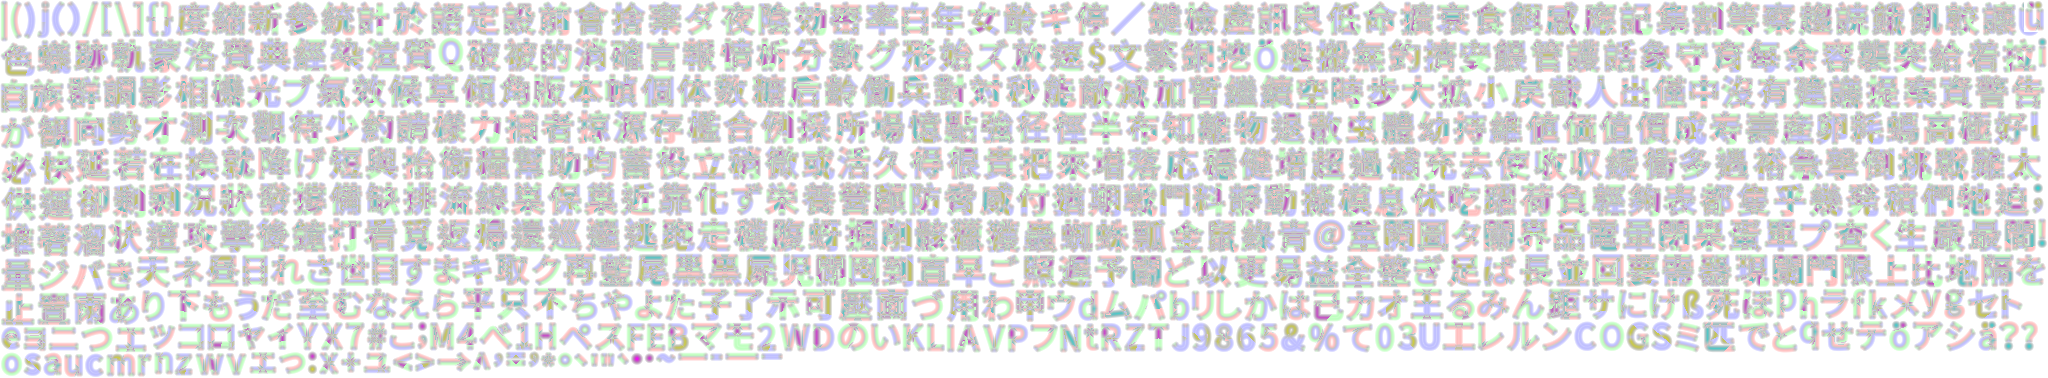
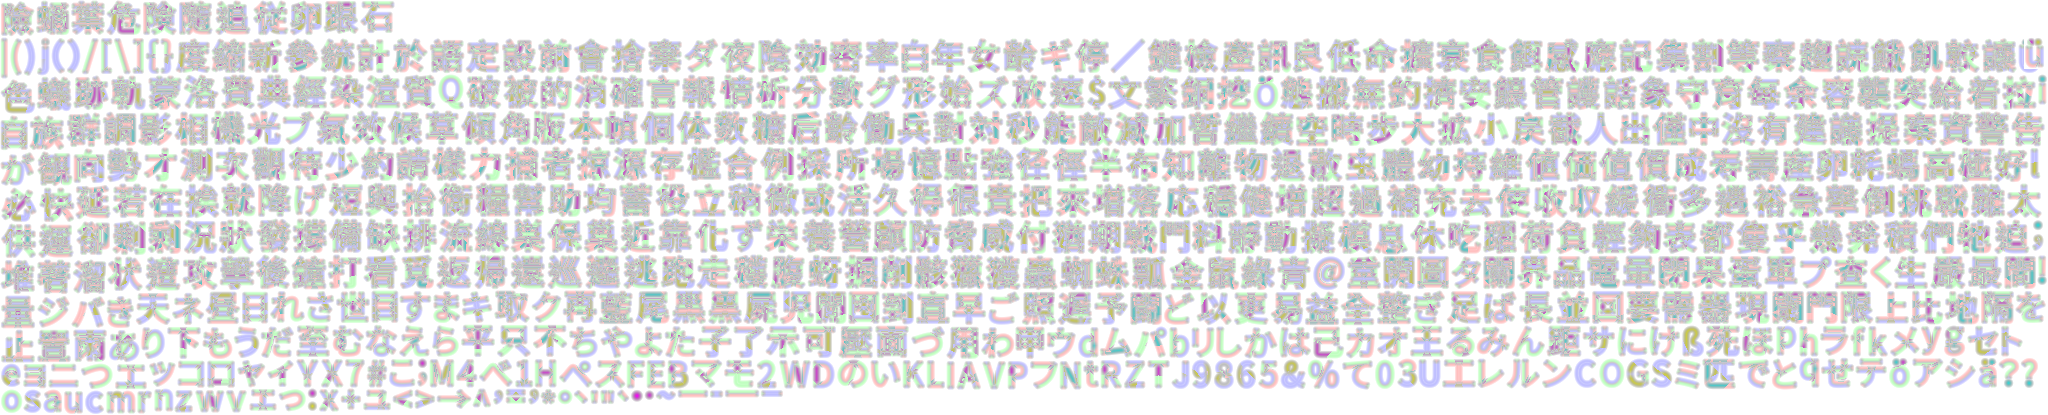
feat(ui): inspect nest brood and chambers (Refs #12)
Eggs, larvae, and pupae that are not being carried can be picked in
the nest, inside a radius smaller than an ant. A click that misses
those, the queen, and nest ants lands on the chamber under the cursor.
The panel shows the stage, hunger, caste, role, and radius.

diff --git a/koolApp/src/desktopTest/kotlin/com/neojou/myants/session/ToolControllerTest.kt b/koolApp/src/desktopTest/kotlin/com/neojou/myants/session/ToolControllerTest.kt
@@ -4,6 +4,9 @@ import com.neojou.myants.SimTool
 import com.neojou.myants.sim.Ant
 import com.neojou.myants.sim.AntKind
 import com.neojou.myants.sim.AntPlace
+import com.neojou.myants.sim.Brood
+import com.neojou.myants.sim.BroodStage
+import com.neojou.myants.sim.ChamberRole
 import com.neojou.myants.sim.Food
 import com.neojou.myants.sim.FoodKind
 import com.neojou.myants.sim.InsectKind
@@ -104,6 +107,60 @@ class ToolControllerTest {
         assertNull(t.inspectedAnt)
         assertTrue(t.inspectTarget() is InspectTarget.QueenTarget)
         assertTrue(t.inspect.value.startsWith("Queen"))
+    }
+
+    @Test
+    fun inspectNestFindsBroodThenChamber() {
+        val colony = world.colonies[0]
+        val q = colony.queen
+        colony.ants.clear()
+        colony.brood.clear()
+        val egg = Brood(q.x + 60, q.y).apply { stage = BroodStage.EGG; age = 3.0 }
+        val larva = Brood(q.x, q.y + 70).apply { stage = BroodStage.LARVA; age = 4.0; hunger = 6.0 }
+        val pupa = Brood(q.x - 60, q.y).apply {
+            stage = BroodStage.PUPA
+            age = 1.0
+            destinedCaste = AntKind.SOLDIER
+        }
+        val carried = Brood(20.0, 20.0).apply {
+            stage = BroodStage.EGG
+            age = 1.0
+            carrier = Ant(0.0, 0.0, AntKind.WORKER)
+        }
+        colony.brood += listOf(egg, larva, pupa, carried)
+        val t = ToolController()
+        t.inspectNest(world, egg.x, egg.y)
+        assertEquals("EGG age=3", t.inspect.value)
+        assertEquals("EGG", t.inspectPanel.value?.title)
+        assertEquals(listOf("age=3"), t.inspectPanel.value?.rows)
+
+        t.inspectNest(world, larva.x, larva.y)
+        assertEquals("LARVA age=4 hunger=6", t.inspect.value)
+        assertTrue(t.inspectPanel.value!!.rows.contains("hunger=6"))
+
+        t.inspectNest(world, pupa.x, pupa.y)
+        assertEquals("PUPA age=1 SOLDIER", t.inspect.value)
+
+        // Queen stays ahead of a brood that is also inside the queen radius.
+        val near = Brood(q.x + 15, q.y).apply { stage = BroodStage.EGG; age = 1.0 }
+        colony.brood += near
+        t.inspectNest(world, near.x, near.y)
+        assertTrue(t.inspectTarget() is InspectTarget.QueenTarget)
+
+        val room = colony.nest.addChamber(24.0, 24.0, 30.0, ChamberRole.STORAGE)
+        t.inspectNest(world, carried.x, carried.y)
+        assertTrue(t.inspectTarget() is InspectTarget.ChamberItem)
+        assertEquals("CHAMBER STORAGE r=30", t.inspect.value)
+        assertEquals(listOf("STORAGE", "r=30"), t.inspectPanel.value?.rows)
+        assertEquals(room.x, 24.0)
+
+        L10n.language.value = UiLanguage.ZH_TW
+        t.inspectNest(world, egg.x, egg.y)
+        assertEquals("卵", t.inspectPanel.value?.title)
+        assertEquals("卵 年齡=3", t.inspect.value)
+        t.inspectNest(world, room.x, room.y)
+        assertEquals("巢間", t.inspectPanel.value?.title)
+        assertEquals(listOf("存放", "半徑=30"), t.inspectPanel.value?.rows)
     }
 
     @Test

diff --git a/koolApp/src/commonMain/kotlin/com/neojou/myants/ui/InspectCopy.kt b/koolApp/src/commonMain/kotlin/com/neojou/myants/ui/InspectCopy.kt
@@ -3,7 +3,10 @@ package com.neojou.myants.ui
 import com.neojou.myants.sim.Ant
 import com.neojou.myants.sim.AntKind
 import com.neojou.myants.sim.AntState
+import com.neojou.myants.sim.Brood
+import com.neojou.myants.sim.BroodStage
 import com.neojou.myants.sim.CarryKind
+import com.neojou.myants.sim.ChamberRole
 import com.neojou.myants.sim.FoodKind
 import com.neojou.myants.sim.InsectKind
 
@@ -73,6 +76,54 @@ internal object InspectCopy {
         if (lang == UiLanguage.EN) type.name else insect(type, lang),
         listOf("${word(UiText.INSPECT_HP, lang)} $health"),
     )
+
+    fun broodLine(brood: Brood, lang: UiLanguage = L10n.language.value): String {
+        val age = brood.age.toInt()
+        val stage = word(stageKey(brood.stage), lang)
+        val base = "$stage ${word(UiText.INSPECT_AGE, lang)}=$age"
+        val withHunger = if (brood.stage == BroodStage.LARVA) {
+            "$base ${word(UiText.INSPECT_HUNGER, lang)}=${brood.hunger.toInt()}"
+        } else {
+            base
+        }
+        val caste = brood.destinedCaste
+        return if (brood.stage == BroodStage.PUPA && caste != null) "$withHunger ${kind(caste, lang)}" else withHunger
+    }
+
+    fun broodPanel(brood: Brood, lang: UiLanguage = L10n.language.value): InspectPanel {
+        val rows = ArrayList<String>()
+        rows += "${word(UiText.INSPECT_AGE, lang)}=${brood.age.toInt()}"
+        if (brood.stage == BroodStage.LARVA) {
+            rows += "${word(UiText.INSPECT_HUNGER, lang)}=${brood.hunger.toInt()}"
+        }
+        val caste = brood.destinedCaste
+        if (brood.stage == BroodStage.PUPA && caste != null) rows += kind(caste, lang)
+        return InspectPanel(word(stageKey(brood.stage), lang), rows)
+    }
+
+    fun chamberLine(role: ChamberRole, radius: Int, lang: UiLanguage = L10n.language.value): String =
+        "${word(UiText.INSPECT_CHAMBER, lang)} ${word(roleKey(role), lang)} ${word(UiText.INSPECT_RADIUS, lang)}=$radius"
+
+    fun chamberPanel(role: ChamberRole, radius: Int, lang: UiLanguage = L10n.language.value): InspectPanel = InspectPanel(
+        word(UiText.INSPECT_CHAMBER, lang),
+        listOf(
+            word(roleKey(role), lang),
+            "${word(UiText.INSPECT_RADIUS, lang)}=$radius",
+        ),
+    )
+
+    private fun stageKey(stage: BroodStage): UiText = when (stage) {
+        BroodStage.EGG -> UiText.INSPECT_EGG
+        BroodStage.LARVA -> UiText.INSPECT_LARVA
+        BroodStage.PUPA -> UiText.INSPECT_PUPA
+    }
+
+    private fun roleKey(role: ChamberRole): UiText = when (role) {
+        ChamberRole.QUEEN -> UiText.INSPECT_ROLE_QUEEN
+        ChamberRole.BROOD -> UiText.INSPECT_ROLE_BROOD
+        ChamberRole.STORAGE -> UiText.INSPECT_ROLE_STORAGE
+        ChamberRole.CEMETERY -> UiText.INSPECT_ROLE_CEMETERY
+    }
 
     fun kind(kind: AntKind, lang: UiLanguage): String = name(KIND, kind.name, lang)
     fun state(state: AntState, lang: UiLanguage): String = name(STATE, state.name, lang)

diff --git a/koolApp/src/commonMain/kotlin/com/neojou/myants/session/InspectTarget.kt b/koolApp/src/commonMain/kotlin/com/neojou/myants/session/InspectTarget.kt
@@ -2,6 +2,8 @@ package com.neojou.myants.session
 
 import com.neojou.myants.sim.Ant
 import com.neojou.myants.sim.AntPlace
+import com.neojou.myants.sim.Brood
+import com.neojou.myants.sim.Chamber
 import com.neojou.myants.sim.Colony
 import com.neojou.myants.sim.Food
 import com.neojou.myants.sim.Insect
@@ -56,5 +58,22 @@ internal sealed class InspectTarget {
         override fun present(world: World): Boolean = world.colonies.any { it === colony }
         override fun line(): String = InspectCopy.queenLine(colony.queen.energy.toInt(), colony.queen.age)
         override fun panel(): InspectPanel = InspectCopy.queenPanel(colony.queen.energy.toInt(), colony.queen.age)
+    }
+
+    /** An egg, larva, or pupa that is not being carried. */
+    data class BroodItem(val brood: Brood, val colony: Colony) : InspectTarget() {
+        override val ant: Ant? get() = null
+        override fun present(world: World): Boolean =
+            world.colonies.any { it === colony } && colony.brood.any { it === brood && it.carrier == null }
+        override fun line(): String = InspectCopy.broodLine(brood)
+        override fun panel(): InspectPanel = InspectCopy.broodPanel(brood)
+    }
+
+    data class ChamberItem(val chamber: Chamber, val colony: Colony) : InspectTarget() {
+        override val ant: Ant? get() = null
+        override fun present(world: World): Boolean =
+            world.colonies.any { it === colony } && colony.nest.chambers.any { it === chamber }
+        override fun line(): String = InspectCopy.chamberLine(chamber.type, chamber.radius.toInt())
+        override fun panel(): InspectPanel = InspectCopy.chamberPanel(chamber.type, chamber.radius.toInt())
     }
 }

diff --git a/koolApp/src/commonMain/kotlin/com/neojou/myants/session/ToolController.kt b/koolApp/src/commonMain/kotlin/com/neojou/myants/session/ToolController.kt
@@ -15,6 +15,10 @@ import de.fabmax.kool.modules.ui2.mutableStateOf
  */
 class ToolController {
     var tool: SimTool = SimTool.INSPECT
+
+    private companion object {
+        const val BROOD_PICK = 12.0
+    }
     var inspectedAnt: Ant? = null
     /** Historical one-line text. Tests lock the English wording. The HUD shows [inspectPanel]. */
     val inspect = mutableStateOf("")
@@ -103,11 +107,30 @@ class ToolController {
             }
         }
         val queen = colony.queen
-        val qdx = queen.x - nx
-        val qdy = queen.y - ny
-        val qd = qdx * qdx + qdy * qdy
+        val qd = dist2(queen.x, queen.y, nx, ny)
         if (qd < best && qd <= 40.0 * 40.0) picked = InspectTarget.QueenTarget(colony)
+        if (picked == null) {
+            var broodBest = Double.MAX_VALUE
+            for (brood in colony.brood) {
+                if (brood.carrier != null) continue
+                val d = dist2(brood.x, brood.y, nx, ny)
+                if (d < broodBest && d <= BROOD_PICK * BROOD_PICK) {
+                    broodBest = d
+                    picked = InspectTarget.BroodItem(brood, colony)
+                }
+            }
+        }
+        if (picked == null) {
+            val chamber = colony.nest.chamberAt(nx, ny)
+            if (chamber != null) picked = InspectTarget.ChamberItem(chamber, colony)
+        }
         show(picked)
+    }
+
+    private fun dist2(x: Double, y: Double, px: Double, py: Double): Double {
+        val dx = x - px
+        val dy = y - py
+        return dx * dx + dy * dy
     }
 
     private fun show(picked: InspectTarget?) {

diff --git a/koolApp/src/commonMain/kotlin/com/neojou/myants/ui/L10nExtra.kt b/koolApp/src/commonMain/kotlin/com/neojou/myants/ui/L10nExtra.kt
@@ -77,6 +77,16 @@ private val EXTRA: Map<UiText, Map<UiLanguage, String>> = mapOf(
     UiText.INSPECT_HEALTH to p("h", "生命", "体力", "h"),
     UiText.INSPECT_AGE to p("age", "年齡", "年齢", "Alter"),
     UiText.INSPECT_HP to p("hp", "生命", "体力", "LP"),
+    UiText.INSPECT_EGG to p("EGG", "卵", "卵", "Ei"),
+    UiText.INSPECT_LARVA to p("LARVA", "幼蟲", "幼虫", "Larve"),
+    UiText.INSPECT_PUPA to p("PUPA", "蛹", "蛹", "Puppe"),
+    UiText.INSPECT_HUNGER to p("hunger", "飢餓", "空腹", "Hunger"),
+    UiText.INSPECT_CHAMBER to p("CHAMBER", "巢間", "巣間", "Kammer"),
+    UiText.INSPECT_ROLE_QUEEN to p("QUEEN", "蟻后", "女王", "Königin"),
+    UiText.INSPECT_ROLE_BROOD to p("BROOD", "育幼", "育児", "Brut"),
+    UiText.INSPECT_ROLE_STORAGE to p("STORAGE", "存放", "置き場", "Lager"),
+    UiText.INSPECT_ROLE_CEMETERY to p("CEMETERY", "死蟻", "死骸", "Friedhof"),
+    UiText.INSPECT_RADIUS to p("r", "半徑", "半径", "r"),
     UiText.AN_WAIT_M to p("Sample size", "樣本數", "サンプル数", "Datenmenge"),
     UiText.AN_WAIT_S to p(
         "Wait a little longer (about 20 seconds)",

diff --git a/koolApp/src/commonMain/kotlin/com/neojou/myants/render3d/InspectRing.kt b/koolApp/src/commonMain/kotlin/com/neojou/myants/render3d/InspectRing.kt
@@ -15,7 +15,8 @@ internal fun inspectRing(target: InspectTarget): InspectRing? = when (target) {
     is InspectTarget.WorldAnt -> InspectRing(target.subject.x, target.subject.y, worldAntRingScale(target.subject.sizeVar))
     is InspectTarget.FoodItem -> InspectRing(target.food.x, target.food.y, foodRingScale(target.food.amount))
     is InspectTarget.InsectItem -> InspectRing(target.insect.x, target.insect.y, insectRingScale(target.insect.type))
-    is InspectTarget.NestAnt, is InspectTarget.QueenTarget -> null
+    is InspectTarget.NestAnt, is InspectTarget.QueenTarget,
+    is InspectTarget.BroodItem, is InspectTarget.ChamberItem -> null
 }
 
 /** Same scale the world ant ring has always used. */

diff --git a/koolApp/src/commonMain/kotlin/com/neojou/myants/ui/L10n.kt b/koolApp/src/commonMain/kotlin/com/neojou/myants/ui/L10n.kt
@@ -108,6 +108,16 @@ enum class UiText {
     INSPECT_HEALTH,
     INSPECT_AGE,
     INSPECT_HP,
+    INSPECT_EGG,
+    INSPECT_LARVA,
+    INSPECT_PUPA,
+    INSPECT_HUNGER,
+    INSPECT_CHAMBER,
+    INSPECT_ROLE_QUEEN,
+    INSPECT_ROLE_BROOD,
+    INSPECT_ROLE_STORAGE,
+    INSPECT_ROLE_CEMETERY,
+    INSPECT_RADIUS,
     AN_WAIT_M, AN_WAIT_S, AN_WAIT_E,
     AN_POP_FALL_M, AN_POP_FALL_S, AN_POP_FALL_E,
     AN_POP_DIP_M, AN_POP_DIP_S, AN_POP_DIP_E,

diff --git a/docs/programming/myants_antsim_deviations.md b/docs/programming/myants_antsim_deviations.md
@@ -34,7 +34,7 @@
 - 啟動參數 `--seed=`、`--colonies=`、`--quality=`（JS 用網址 query）覆蓋已存的族群數與品質。
 - 按鈕用 ASCII（`||`、`>|`、`?`、`S`、`P`、`E`）。Fira MSDF 沒有 emoji，德文變音符號有。WebGL 與 Bloom 核取方塊顯示但鎖定。滑桿沒有 step，量化做在 `onChange`。
 - 介面語言可選 English、繁體中文、日本語、Deutsch，預設 English。入口是工具列右上角的地球圖示；Grafik 不再另有一排語言按鈕。舊設定檔的 `EN`／`ZH_TW`／`DE` 仍有效，沒有 `language` 或不認得的值用 English。切換語言不重建世界。選了哪一種，工具列、HUD、Grafik、Params、分析建議、Inspect、Restart 對話框與敵群核取方塊就整面用那一種。品質選項顯示語系名稱，存檔仍是 `ULTRA_LOW` 這類 enum 名。分析的套用按鈕仍是 `path: 1.0 → 0.7`。`3D`、`SSAO`、色碼、版號與快捷鍵字元每種語言都一樣。`Based on AntSim_V2 by nilsgollub (MIT)` 仍是英文。英文與德文用 Fira。繁中與日文用 Noto Sans CJK 的 MSDF 圖集（只含介面用字）；HUD 數字欄位仍用 Fira。Stats 圖上的點陣字沒有中日文，繁中和日文時線尾改畫英文短名，圖下文字仍是字串表原文。下雨在骷髏頭右邊，仍是天氣開關。
-- Inspect 點到世界螞蟻、食物、昆蟲、巢內螞蟻或蟻后後，HUD 改顯示類型與狀態列，約每模擬秒重讀該物件，不寫回 sim。物件離開原本的清單就清空。英文一行仍在，只是不再畫出來。左側世界的食物與昆蟲用與世界螞蟻同一枚地面圈，圈比物件輪廓再大一點；世界螞蟻的圈大小不變。巢內螞蟻與蟻后這次不畫圈。地形、房室、卵幼蟲與設計稿的雙環呼吸高亮還沒做。工具列、HUD 與面板擋住指標時，該下點擊不送進世界或巢穴，所以暫停與速度按鈕不會清掉選取。
+- Inspect 點到世界螞蟻、食物、昆蟲、巢內螞蟻、蟻后、沒被搬走的卵／幼蟲／蛹，或房室後，HUD 改顯示類型與狀態列，約每模擬秒重讀該物件，不寫回 sim。物件離開原本的清單就清空。幼體的命中半徑是 12，小於螞蟻的 30；蟻后仍是 40，而且先於幼體。房室只在前面都沒點中、且點在房間半徑內時出現。英文一行仍在，只是不再畫出來。左側世界的食物與昆蟲用與世界螞蟻同一枚地面圈，圈比物件輪廓再大一點；世界螞蟻的圈大小不變。巢內這次仍不畫圈。地形與設計稿的雙環呼吸高亮還沒做。工具列、HUD 與面板擋住指標時，該下點擊不送進世界或巢穴，所以暫停與速度按鈕不會清掉選取。
 - 快捷鍵：空白鍵暫停、`.` 單步、`+`／`-` 改速度、`1`–`4` 選工具。AntSim 的 `+`／`-` 是縮放；#11 改成速度。`=` 仍放大、`_` 仍縮小。`[`、`]` 原作沒有，評估後不加。介面沒有文字欄，所以這些字元不會打進輸入框。
 - HUD 的 Protein / Sugar 用 `floor`，與來源 `Math.floor` 相同。
 - `HelloCubeScene.kt`、`AppUi.kt` 與 `KoolStudyApp.kt` 已移除。入口是 `myantsApp()`。About 在 `AntSimUi.kt`，含 `Based on AntSim_V2 by nilsgollub (MIT)`。

diff --git a/handoff.md b/handoff.md
@@ -34,7 +34,7 @@
 - 版本：**0.16.0**（commit 與 tag 已在 origin）。v0.15.0 涵蓋 M1＋M2。接手時 `main` 為 `390d4b9`。
 - M1、M2：已關閉。
 - **M3 UI/UX 與架構整理**：已在 origin，tag `v0.16.0`（642f082）。GitHub Release 這次沒有查。
-- **M4 Tool - Inspect（epic #12）**：進行中。第一片在本機 dc78b4f（尚未 push）：現有命中（世界螞蟻、食物、昆蟲、巢內螞蟻、蟻后）的 HUD 類型與狀態，約每模擬秒更新，不寫回模擬。工具列擋住指標時，暫停與速度按鈕不再清掉選取。左側世界的食物與昆蟲也畫選取圈。巢內螞蟻、蟻后、地形、房室、卵幼蟲與設計稿的雙環高亮之後再做。不關 #12。
+- **M4 Tool - Inspect（epic #12）**：進行中。現有命中（世界螞蟻、食物、昆蟲、巢內螞蟻、蟻后）的 HUD 類型與狀態約每模擬秒更新，不寫回模擬。工具列擋住指標時，暫停與速度按鈕不再清掉選取。左側世界的食物與昆蟲也畫選取圈。巢穴沒被搬走的卵、幼蟲、蛹，以及房室，已有 HUD。地形、巢內高亮與設計稿的雙環高亮之後再做。不關 #12。尚未 push。
 - M5 glTF（epic #13）：這次不做。
 
 ## 2. 開著的 PR
@@ -58,7 +58,7 @@
 ## 4. 後續
 
 - 介面語言現為 English／繁體中文／日本語／Deutsch，預設 English（本機 40aa960，尚未 push）。入口在工具列右上角的地球圖示，Grafik 不再有語言按鈕。下雨在骷髏頭右邊。敵群、Params、品質、分析、Inspect 跟所選語言走。MIT 行仍是英文。繁中與日文用 Noto Sans CJK 圖集，HUD 數字仍是 Fira。切換語言不重建世界。
-- **M4 Inspect（#12）**：點選螞蟻／食物／巢／地形，顯示類型與狀態。做在 PointerRouter 之上。不得把玩家操作寫回模擬。第一片只做現有命中的 HUD 面板；其餘仍待做。
+- **M4 Inspect（#12）**：點選螞蟻／食物／巢／地形，顯示類型與狀態。做在 PointerRouter 之上。不得把玩家操作寫回模擬。巢的卵、幼蟲、蛹與房室已有 HUD。地形與高亮仍待做。
 - **M5 glTF（#13）**：單位與物件改用 glTF 2.0。這次不做。
 
 ## 5. 建置與測試

diff --git a/docs/PLAN.md b/docs/PLAN.md
@@ -17,7 +17,7 @@
 - 版本：0.16.0
 - SHA：390d4b9 是接手時的 `main`。v0.16.0（642f082）的 commit 與 tag 已在 origin。
 - 內容：M1、M2 在 v0.15.0。M3 在 v0.16.0（642f082）。其後本機 40aa960：下雨在骷髏頭右邊；右上角地球圖示切 English／繁體中文／日本語／Deutsch。不另升版，尚未 push。
-- 下一步：M4 Inspect（#12）進行中。第一片在本機 dc78b4f：現有命中的 HUD 類型與狀態，約每模擬秒更新。工具列擋住指標時，暫停與速度按鈕不再清掉選取。左側世界的食物與昆蟲也畫選取圈。巢內螞蟻、蟻后、地形、房室、卵幼蟲與設計稿的雙環高亮之後再做。尚未 push。M5 glTF（#13）這次不做。
+- 下一步：M4 Inspect（#12）進行中。現有命中的 HUD 類型與狀態約每模擬秒更新。工具列擋住指標時，暫停與速度按鈕不再清掉選取。左側世界的食物與昆蟲也畫選取圈。巢穴的卵、幼蟲、蛹與房室已有 HUD。地形、巢內高亮與設計稿的雙環高亮之後再做。尚未 push。M5 glTF（#13）這次不做。
 - 工作方式：`handoff.md` 第 0 節，以及 `docs/AI/How-To-Grok-build-one-AI-developing-approach.md`。
 
 已完成、仍有效的結構：

diff --git a/CHANGELOG.md b/CHANGELOG.md
@@ -5,7 +5,8 @@
 ## [Unreleased]
 
 ### 新增
-- Inspect 點到世界螞蟻、食物、昆蟲、巢內螞蟻或蟻后後，HUD 顯示類型與狀態，約每模擬秒重讀。物件離開原本的清單就清空。不寫回模擬。英文一行仍留給測試。地形、房室、卵幼蟲與 3D 高亮尚未做（Refs #12）
+- Inspect 點到世界螞蟻、食物、昆蟲、巢內螞蟻或蟻后後，HUD 顯示類型與狀態，約每模擬秒重讀。物件離開原本的清單就清空。不寫回模擬。英文一行仍留給測試。地形與 3D 高亮尚未做（Refs #12）
+- 巢穴裡沒被搬走的卵、幼蟲、蛹可以點選，命中半徑小於螞蟻。沒點到螞蟻、蟻后或幼體時，點在房室半徑內會顯示用途與半徑。幼蟲多一列飢餓，蛹多一列預定階級。圖集補上蛹，以及後面地形與跟隨會用的石、葉、危險、跟隨、追従（Refs #12）
 - 介面語言加上日本語。工具列第一列最右是地球圖示（Material Symbols Rounded `language`，缺檔退回 `Aa`）。選單為 English、繁體中文、日本語、Deutsch，預設 English。寫入既有的 `language=`。Grafik 不再另有一排語言按鈕。切換不重建世界
 
 ### 變更
